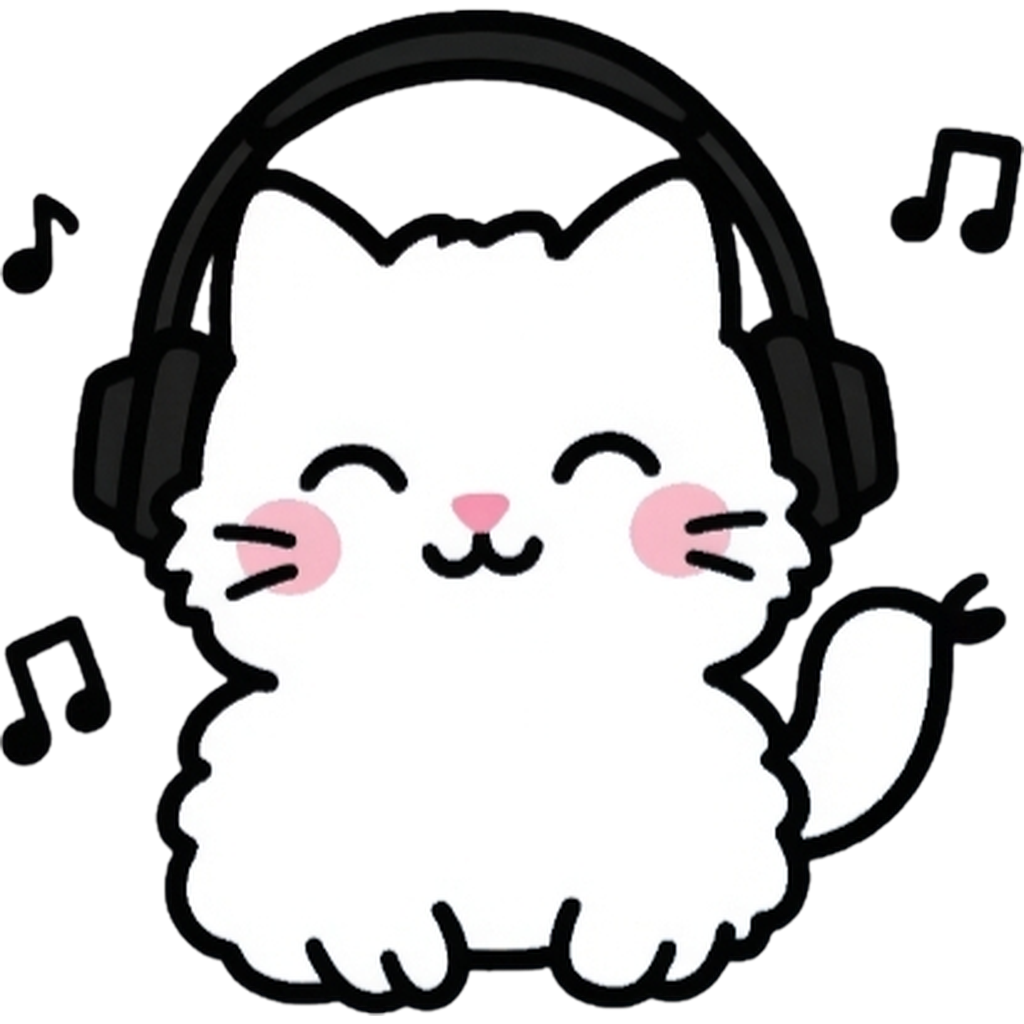
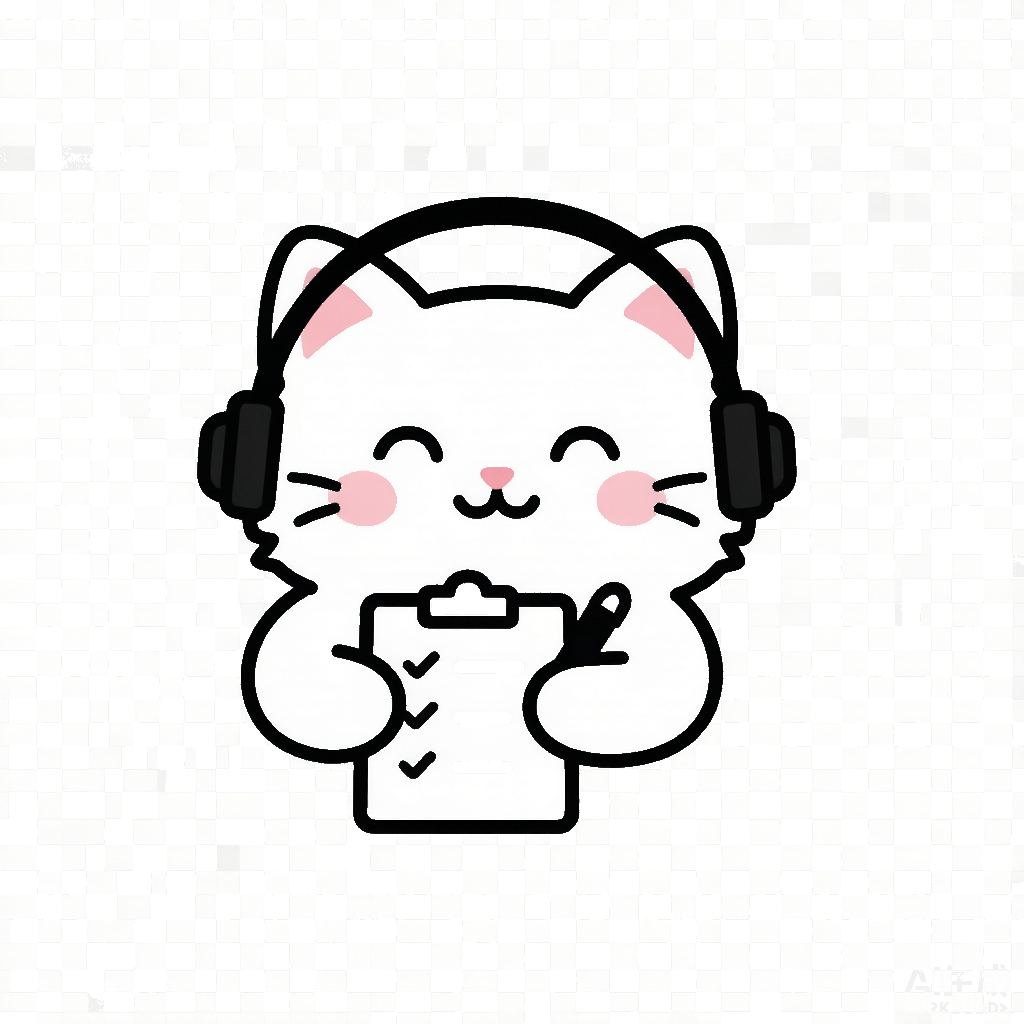
v1.53r⑦ web：①侧栏「计划」猫图标换回 v18 原图(黑白棋盘格+戴耳机小猫捧清单)——根因是 r③ 误换成大白猫+音符、r⑤ 只把错图放大成 1024²，前两轮判成缓存/尺寸均错。②备份丢失二次根治：1.75 的 addJavascriptInterface 注册在 super.onCreate() 之后，Capacitor 此时已 loadUrl，页面里 window.NativeStore 恒为 undefined，镜像分支全程空跑；改走已 registerPlugin 的 KaoyanBridge 插件 getStore/putStore，app.js 启动 hydrateN

diff --git a/js/app.js b/js/app.js
@@ -923,25 +923,21 @@
 
   /* ---------- 存储 ---------- */
   const KEY = 'kaoyan28_v1';
+  const NATIVE_TS_KEY = 'kaoyan28_v1_ts';  // v1.53r⑦：localStorage 侧时间戳（不污染 store 结构）
+  let _nativePayload = '';                 // 最近一次 save 生成的原生存档包装串
+  let _nativeDiag = '未检测';               // 存档自检信息（设置页可见）
   let store = load();
 
   function load() {
+    // v1.53r⑦：同步阶段只读 localStorage（首屏即时渲染）。
+    // 原生存档改由 KaoyanBridge 插件异步读取，启动后 hydrateNativeStore() 补载。
+    // 只读 localStorage：原生文件是 {ts,data} 包装串，不能直接 migrate（会被当成 store
+    // 解析成一堆默认值，首屏闪一下空数据）。统一由 hydrateNativeStore() 负责解包补载。
     try {
-      // v1.53r⑥④：优先原生文件存储（安卓重启可靠持久），兜底 localStorage
-      let raw = null;
-      if (window.NativeStore) {
-        try { const ns = window.NativeStore.getStore(); if (ns) raw = ns; } catch (e) {}
-      }
-      if (!raw) {
-        try { const ls = localStorage.getItem(KEY); if (ls) raw = ls; } catch (e) {}
-      }
-      if (!raw) return defaults();
-      const st = migrate(JSON.parse(raw));
-      // 双向镜像：无论哪边有数据，都写回另一边，保证下次启动任意源都有
-      try { if (window.NativeStore) window.NativeStore.putStore(JSON.stringify(st)); } catch (e) {}
-      try { localStorage.setItem(KEY, JSON.stringify(st)); } catch (e) {}
-      return st;
-    } catch (e) { return defaults(); }
+      const raw = localStorage.getItem(KEY);
+      if (raw) return migrate(JSON.parse(raw));
+    } catch (e) {}
+    return defaults();
   }
   function defaults() {
     return {
@@ -1129,10 +1125,129 @@
     return merged;
   }
   function save() {
-    try { localStorage.setItem(KEY, JSON.stringify(store)); } catch (e) { toast('保存失败：存储空间不足'); }
-    // v1.53r⑥④：同步镜像到原生文件存储（安卓重启可靠持久，根治 localStorage 丢失）
-    try { if (window.NativeStore) window.NativeStore.putStore(JSON.stringify(store)); } catch (e) {}
+    let json = '';
+    try { json = JSON.stringify(store); } catch (e) { json = ''; }
+    const ts = Date.now();
+    try { localStorage.setItem(KEY, json); localStorage.setItem(NATIVE_TS_KEY, String(ts)); }
+    catch (e) { toast('保存失败：存储空间不足'); }
+    // v1.53r⑦：主存档镜像到原生文件。包装成 {ts,data}，启动时可比时间戳决定谁更新。
+    try { _nativePayload = JSON.stringify({ ts: ts, data: json }); } catch (e) { _nativePayload = ''; }
+    nativeStorePut(_nativePayload);
     pushWidgetSnapshot();
+  }
+
+  /* ============ v1.53r⑦：主存档原生文件镜像（走 KaoyanBridge 插件通道） ============
+   * 1.75 失败根因：addJavascriptInterface 写在 super.onCreate() 之后，而 Capacitor 在
+   * super.onCreate() 里已 loadUrl；Android 规定注入对象要等页面下次 reload 才可见，
+   * 所以页面里 window.NativeStore 恒为 undefined，load()/save() 的镜像分支全程空跑。
+   * 现改走已在 super.onCreate() 之前 registerPlugin 的 KaoyanBridge（小组件快照一直靠它，
+   * 确定可用），并在启动时异步补载：原生文件较新则覆盖 localStorage 并重绘。
+   */
+  function nativeStorePut(payload) {
+    if (!payload) return;
+    // 通道 A：Capacitor 插件（主通道，可靠）
+    try {
+      const br = getBridge();
+      if (br && typeof br.putStore === 'function') {
+        const p = br.putStore({ value: payload });
+        if (p && typeof p.catch === 'function') p.catch(() => {});
+      }
+    } catch (e) {}
+    // 通道 B：同步 JSInterface（若某台设备恰好在 loadUrl 前注入成功，多一层保险）
+    try { if (window.NativeStore && typeof window.NativeStore.putStore === 'function') window.NativeStore.putStore(payload); } catch (e) {}
+  }
+  function nativeStoreGet(cb) {
+    try {
+      if (window.NativeStore && typeof window.NativeStore.getStore === 'function') {
+        const s = window.NativeStore.getStore(); if (s) { _nativeDiag = '同步 JSInterface 读取成功'; cb(s); return; }
+      }
+    } catch (e) {}
+    let br = null;
+    try { br = getBridge(); } catch (e) {}
+    if (!br || typeof br.getStore !== 'function') {
+      _nativeDiag = 'KaoyanBridge.getStore 不可用（APK 版本过旧或插件未就绪）';
+      cb(''); return;
+    }
+    try {
+      const p = br.getStore();
+      if (p && typeof p.then === 'function') {
+        p.then((r) => cb((r && r.value) || ''))
+         .catch((e) => cb('', 'getStore 调用失败：' + ((e && e.message) || e)));
+      } else cb('', 'getStore 未返回 Promise');
+    } catch (e) { cb('', 'getStore 异常：' + ((e && e.message) || e)); }
+  }
+  function parseNativePayload(raw) {
+    // 新格式 {ts,data}；兼容 1.75 可能残留的裸 store JSON
+    try {
+      const o = JSON.parse(raw);
+      if (o && typeof o === 'object' && typeof o.data === 'string') return { ts: +o.ts || 0, data: o.data };
+      if (o && typeof o === 'object' && 'version' in o) return { ts: 0, data: raw };
+    } catch (e) {}
+    return null;
+  }
+  function hydrateNativeStore(tries) {
+    if (tries == null) tries = 6;
+    if (!bridgeSupported()) { _nativeDiag = '网页版：无需原生存档（localStorage 即可）'; return; }
+    nativeStoreGet((raw, err) => {
+      if (err) {
+        _nativeDiag = '⚠ ' + err + ' —— 请确认已安装最新 APK（1.76+）';
+        if (tries > 0) setTimeout(() => hydrateNativeStore(tries - 1), 400);
+        renderNativeDiag();
+        return;
+      }
+      if (!raw) {
+        let br2 = null; try { br2 = getBridge(); } catch (e) {}
+        const pluginReady = !!(br2 && typeof br2.getStore === 'function');
+        if (!pluginReady) {
+          _nativeDiag = '⚠ 未检测到 KaoyanBridge.getStore —— 请确认已安装最新 APK（1.76+）';
+          if (tries > 0) setTimeout(() => hydrateNativeStore(tries - 1), 400);
+          renderNativeDiag();
+          return;
+        }
+        // 原生文件为空：绝不用当前 store（可能是被清空后的 defaults）去播种，
+        // 否则插件晚就绪一拍就会把好存档冲掉。只从 localStorage 里真实存在的数据备份一份。
+        let ls = '';
+        try { ls = localStorage.getItem(KEY) || ''; } catch (e) {}
+        if (ls) {
+          let lts = 0; try { lts = +(localStorage.getItem(NATIVE_TS_KEY) || 0) || Date.now(); } catch (e) {}
+          _nativePayload = JSON.stringify({ ts: lts, data: ls });
+          nativeStorePut(_nativePayload);
+          _nativeDiag = '原生存档为空，已从 localStorage 备份一份';
+        } else {
+          _nativeDiag = '原生存档与本地均为空（新安装或旧版数据已丢失）';
+        }
+        if (tries > 0) setTimeout(() => hydrateNativeStore(tries - 1), 400);
+        renderNativeDiag();
+        return;
+      }
+      const p = parseNativePayload(raw);
+      if (!p) { _nativeDiag = '原生存档格式异常'; return; }
+      // 关键：把刚读到的原生快照同步给 _nativePayload，否则随后定时 pushSnapshot
+      // 会用「启动瞬间的旧存档」把原生文件覆盖回去，导致数据倒退。
+      _nativePayload = raw;
+      let localTs = 0;
+      try { localTs = +(localStorage.getItem(NATIVE_TS_KEY) || 0) || 0; } catch (e) {}
+      if (p.ts > localTs && p.data) {
+        try {
+          const d = JSON.parse(p.data);
+          store = migrate(d);
+          localStorage.setItem(KEY, p.data);
+          localStorage.setItem(NATIVE_TS_KEY, String(p.ts));
+          _nativeDiag = '已从原生存档恢复（原生 ts=' + p.ts + ' > 本地 ts=' + localTs + '）';
+          try {
+            const app = document.getElementById('app');
+            if (app && !app.classList.contains('hidden')) { renderPage(curPage); tickCountdown(); }
+          } catch (e) {}
+        } catch (e) { _nativeDiag = '恢复失败：' + ((e && e.message) || e); }
+      } else {
+        _nativeDiag = '本地数据已最新（原生 ts=' + p.ts + ' / 本地 ts=' + localTs + '）';
+      }
+      renderNativeDiag();
+    });
+  }
+  function renderNativeDiag() {
+    const box = document.getElementById('__nativeDiag');
+    if (box) box.textContent = '存档状态：' + _nativeDiag;
   }
 
   /* ============ 原生桌面小组件 数据桥 ============ */
@@ -1174,7 +1289,13 @@
     try { payload = JSON.stringify(buildWidgetSnapshot()); }
     catch (e) { _pushErr = '构建快照失败：' + (e && e.message); return; }
     try {
-      const p = br.pushSnapshot({ value: payload });
+      // v1.53r⑦：顺手把主存档一起带给原生层（Java pushSnapshot 会写入 kaoyan_store.json），
+      // 即使旧 APK 没有 putStore 方法，这条既有通道也能兜住存档。
+      // 关键：只复用 save() 生成的 _nativePayload，绝不在这里另造时间戳或另取 store，
+      // 否则定时刷新快照会用「当前（可能为空）的 store」覆盖掉原生文件里的好数据。
+      const arg = { value: payload };
+      if (_nativePayload) arg.store = _nativePayload;
+      const p = br.pushSnapshot(arg);
       if (p && typeof p.then === 'function') {
         p.then(() => { _pushOk = true; }).catch((e) => { _pushErr = (e && e.message) || String(e); });
       } else { _pushOk = true; }
@@ -6619,6 +6740,29 @@ ${dl}
     renderSubjectCard();
     renderCountCard();
     renderAiProxyCard();
+
+    // v1.53r⑦：数据存档自检卡片——直接在手机上看到「原生存档通道」是否真的可用。
+    // 便于一眼分辨「新版 APK 已生效」还是「仍装着旧包」，不用再靠猜。
+    let diagCard = document.getElementById('__nativeDiagCard');
+    if (!diagCard) {
+      diagCard = document.createElement('div');
+      diagCard.id = '__nativeDiagCard';
+      diagCard.className = 'card';
+      diagCard.style.cssText = 'margin-top:12px';
+      diagCard.innerHTML = '<div class="card-t">💾 数据存档自检</div>'
+        + '<div id="__nativeDiag" style="font-size:12px;line-height:1.7;color:#5a6b7d;word-break:break-word"></div>'
+        + '<div style="display:flex;gap:8px;margin-top:10px;flex-wrap:wrap">'
+        + '<button class="gbtn" id="__nativeRecheck" style="flex:1 1 130px">重新检测</button>'
+        + '<button class="gbtn" id="__nativeFlush" style="flex:1 1 130px">立即写入存档</button>'
+        + '</div>';
+      const sec = document.querySelector('[data-page="setting"]');
+      if (sec) sec.appendChild(diagCard);
+      const rc = document.getElementById('__nativeRecheck');
+      if (rc) rc.onclick = () => { _nativeDiag = '正在检测…'; renderNativeDiag(); hydrateNativeStore(2); setTimeout(renderNativeDiag, 900); };
+      const fl = document.getElementById('__nativeFlush');
+      if (fl) fl.onclick = () => { save(); toast('已写入本地存档'); renderNativeDiag(); };
+    }
+    renderNativeDiag();
     store.setTab = 'setting';   // v1.51：点开设置默认显示「设置」面板（非喵上岸）
     applySetTab();   // 每次进入设置都按 store.setTab 校正可见面板
   }
@@ -7082,6 +7226,9 @@ ${dl}
   }
 
   /* ================= 启动 ================= */
+  // v1.53r⑦：启动即异步校验/补载原生存档（Capacitor 插件通道，重启不丢数据）。
+  // 放在 initSplash 之前，开屏页阶段就有足够时间拿到插件返回值；失败会自动重试 6 次。
+  hydrateNativeStore();
   initSplash();
     // 安装包（Capacitor）里资源已随包内置，不需要 Service Worker 离线缓存，且 SW 可能缓存旧资源阻碍更新，故跳过。
     if ('serviceWorker' in navigator && !window.Capacitor) {

diff --git a/sw.js b/sw.js
@@ -1,5 +1,5 @@
 /* 喵上岸 28考研工作台 — Service Worker（离线缓存 + 安装支持） */
-const CACHE = 'kaoyan28-v46';   // v46——v1.53r⑥：4 修复。①单词长单词自动缩字号单行(修"超11字母折两行"：app.js 去 word-break/overflow-wrap+canvas 量宽 shrink 到单行)。②计划导出卡片上下留白 +PAD12(app.js)。③侧栏计划猫图标 cat-plan.png 1024² 重发(浏览器/WebView 缓存导致"没改"，sw 升版强制刷新)。④安卓备份丢失根治：新增 NativeStoreBridge(原生 getFilesDir/kaoyan_store.json 文件持久化)+app.js load/save 双向镜像，重启不丢。index.html 与 js/app.js 仍 network-first。
+const CACHE = 'kaoyan28-v47';   // v47——v1.53r⑦：①侧栏「计划」猫图标换回 v18 原图(黑白棋盘格+戴耳机小猫捧清单)，根因是 r③ 把它误换成大白猫+音符、r⑤ 只是把错图放大；②备份丢失二次根治：1.75 的 addJavascriptInterface 注册在 super.onCreate() 之后，Capacitor 此时已 loadUrl，window.NativeStore 页面里恒为 undefined，镜像全程空跑 → 改走已 registerPlugin 的 KaoyanBridge 插件 getStore/putStore + 原子写 + .bak，app.js 启动时 hydrateNativeStore() 时间戳比对恢复，设置页新增「💾 数据存档自检」。index.html 与 js/app.js 仍 network-first。
 
 const ASSETS = [
   './',
